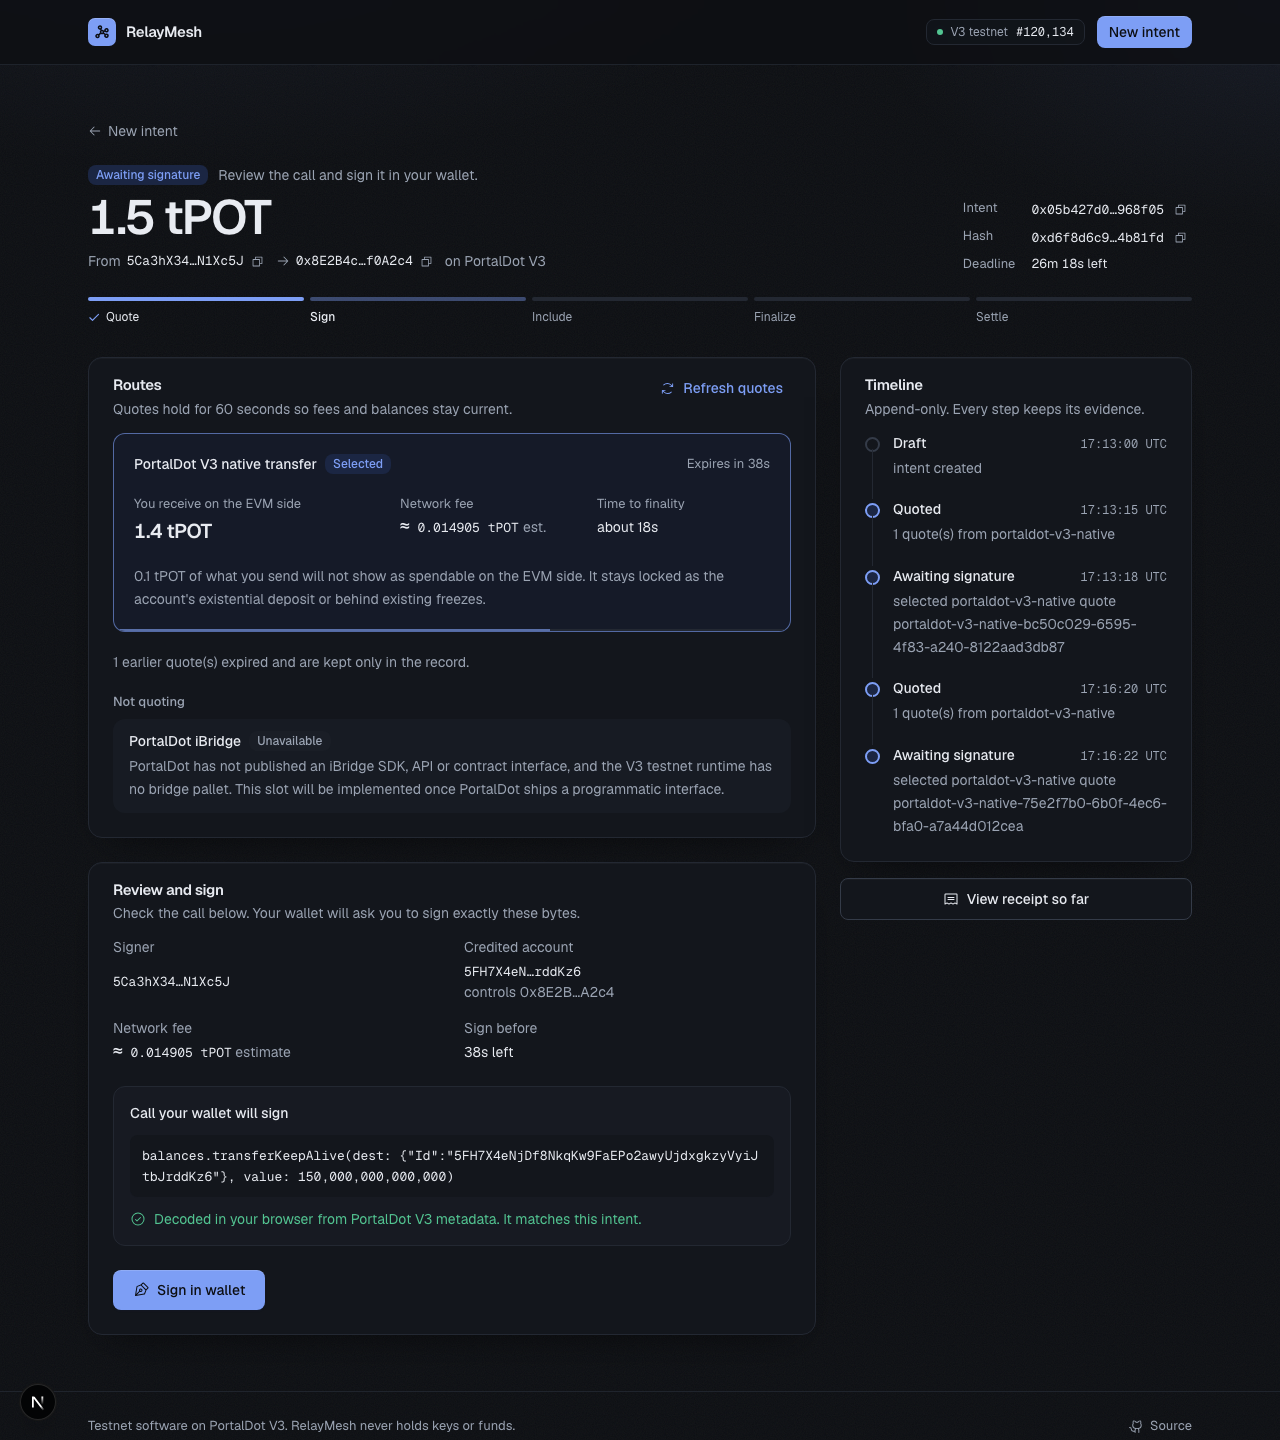
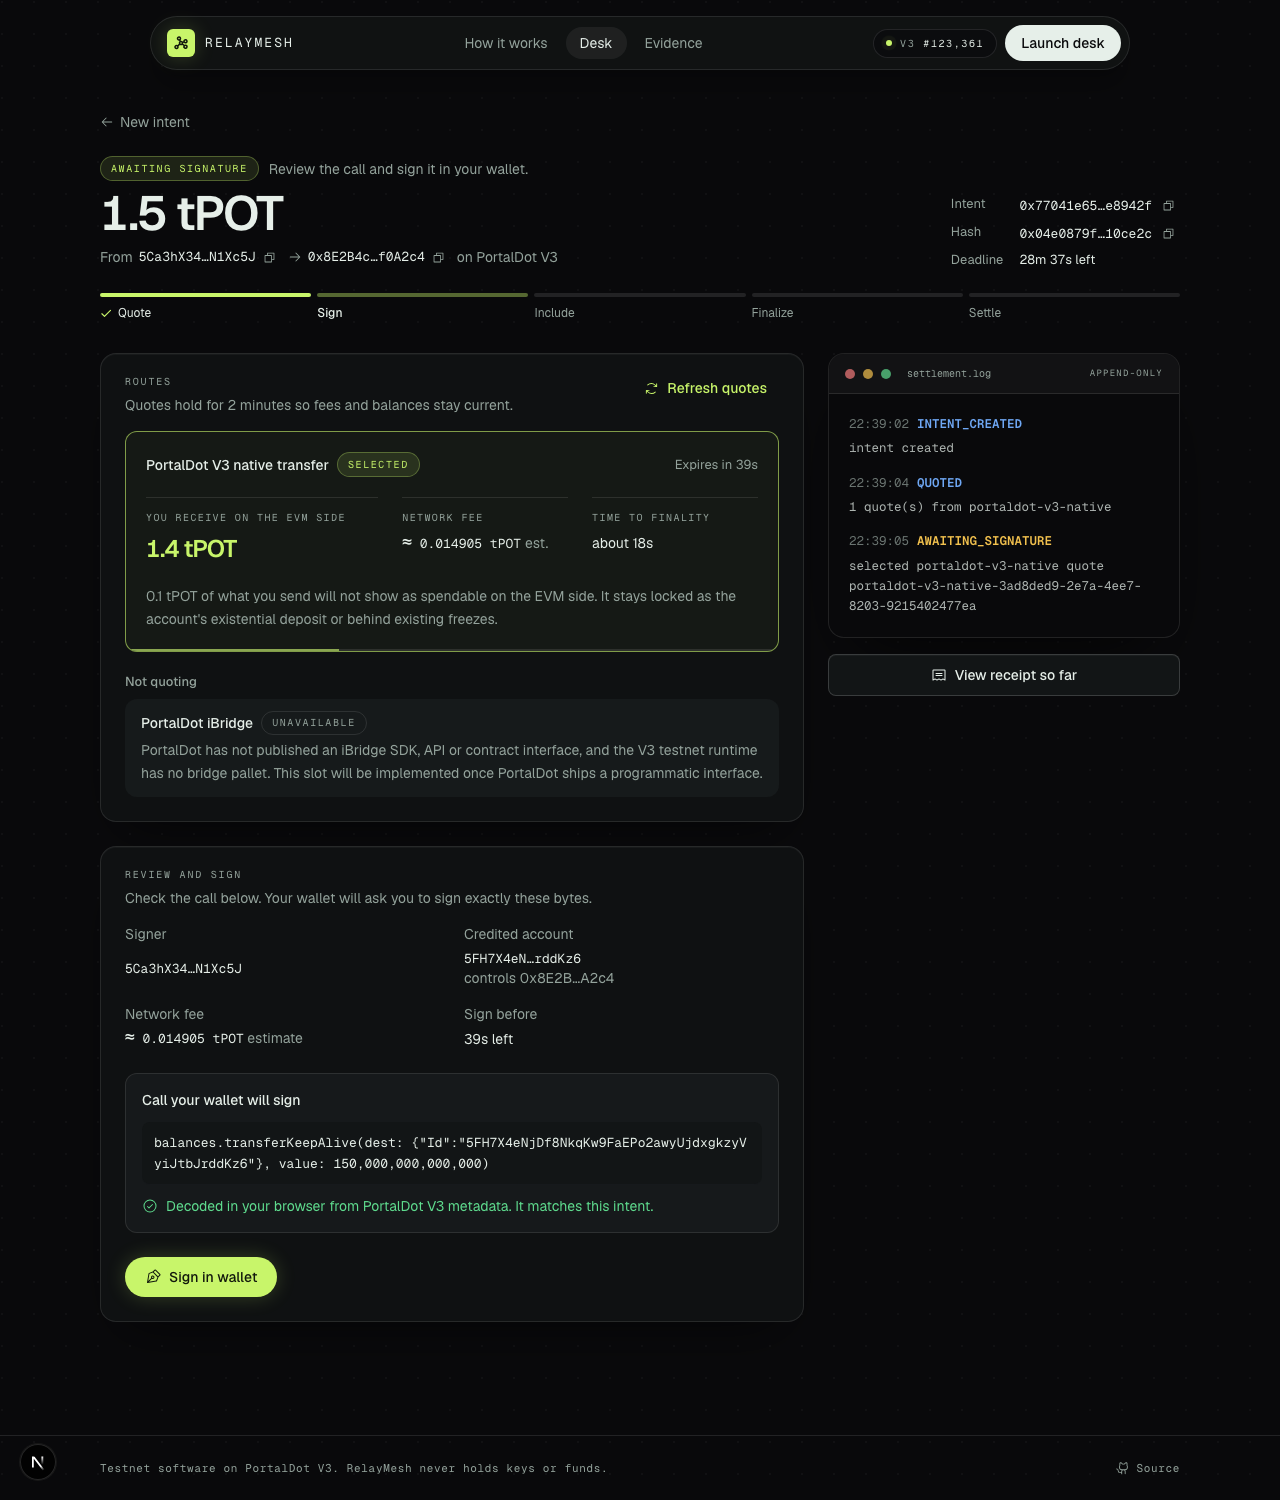
docs: refresh screenshots and README for the console and landing page

diff --git a/README.md b/README.md
@@ -68,18 +68,21 @@ cd RelayMesh
 pnpm worker  # settlement watcher
 ```
 
-Open http://localhost:3010, connect Talisman (or enter any PortalDot address to preview quotes without signing), enter an EVM address and an amount, and press Get quotes.
+Open http://localhost:3010 for the landing page, then press Launch desk (or go straight to http://localhost:3010/desk).
+Connect Talisman (or enter any PortalDot address to preview quotes without signing), enter an EVM address and an amount, and press Get quotes.
 The quote, fee and destination account come from the live PortalDot V3 testnet.
 
 ## Screenshots
 
-![New intent form with the live route list, showing the V3 native transfer as available and iBridge as unavailable with its reason](docs/screenshots/new-intent.png)
+![Landing page: headline, Launch desk call to action, and the latest settled transfer rendered as a live settlement log read from the database](docs/screenshots/landing.png)
 
-![Intent page with a live quote: 2.4 tPOT received for 2.5 tPOT sent, a network fee estimate from payment_queryInfo, the existential deposit explanation, and the timeline](docs/screenshots/quotes.png)
+![Routing desk: the transfer form beside a live ledger of settled and in-flight intents, route status with iBridge unavailable and its reason, and recent intents](docs/screenshots/new-intent.png)
+
+![Intent page with a live quote: 2.4 tPOT received for 2.5 tPOT sent, a network fee estimate from payment_queryInfo, the lifecycle stepper and the settlement log](docs/screenshots/quotes.png)
 
 ![Review and sign panel: the call decoded in the browser from PortalDot V3 metadata, checked against the intent before the sign button is enabled](docs/screenshots/review.png)
 
-![Settlement receipt with source and destination legs, intent and receipt hashes, and the full timeline](docs/screenshots/receipt.png)
+![Settlement receipt for the real transfer settled in block #122911: 1 tPOT sent, 0.9 tPOT observed on the EVM side, both legs finalized, intent and receipt hashes](docs/screenshots/receipt.png)
 
 ## The one rule
 
@@ -360,7 +363,7 @@ pnpm deploy:registry  # needs DEPLOYER_PRIVATE_KEY with tPOT
 
 ## The one-flow demo
 
-1. Open http://localhost:3010 and connect Talisman with a funded PortalDot V3 account.
+1. Open http://localhost:3010, press Launch desk, and connect Talisman with a funded PortalDot V3 account.
 2. Enter an EVM address you control, 1 tPOT, and a 10 minute deadline, then press Get quotes.
 3. Review the route: expected EVM-side amount, fee estimate, and the iBridge rejection reason.
 4. Press Review this route and check the call your browser decoded.
